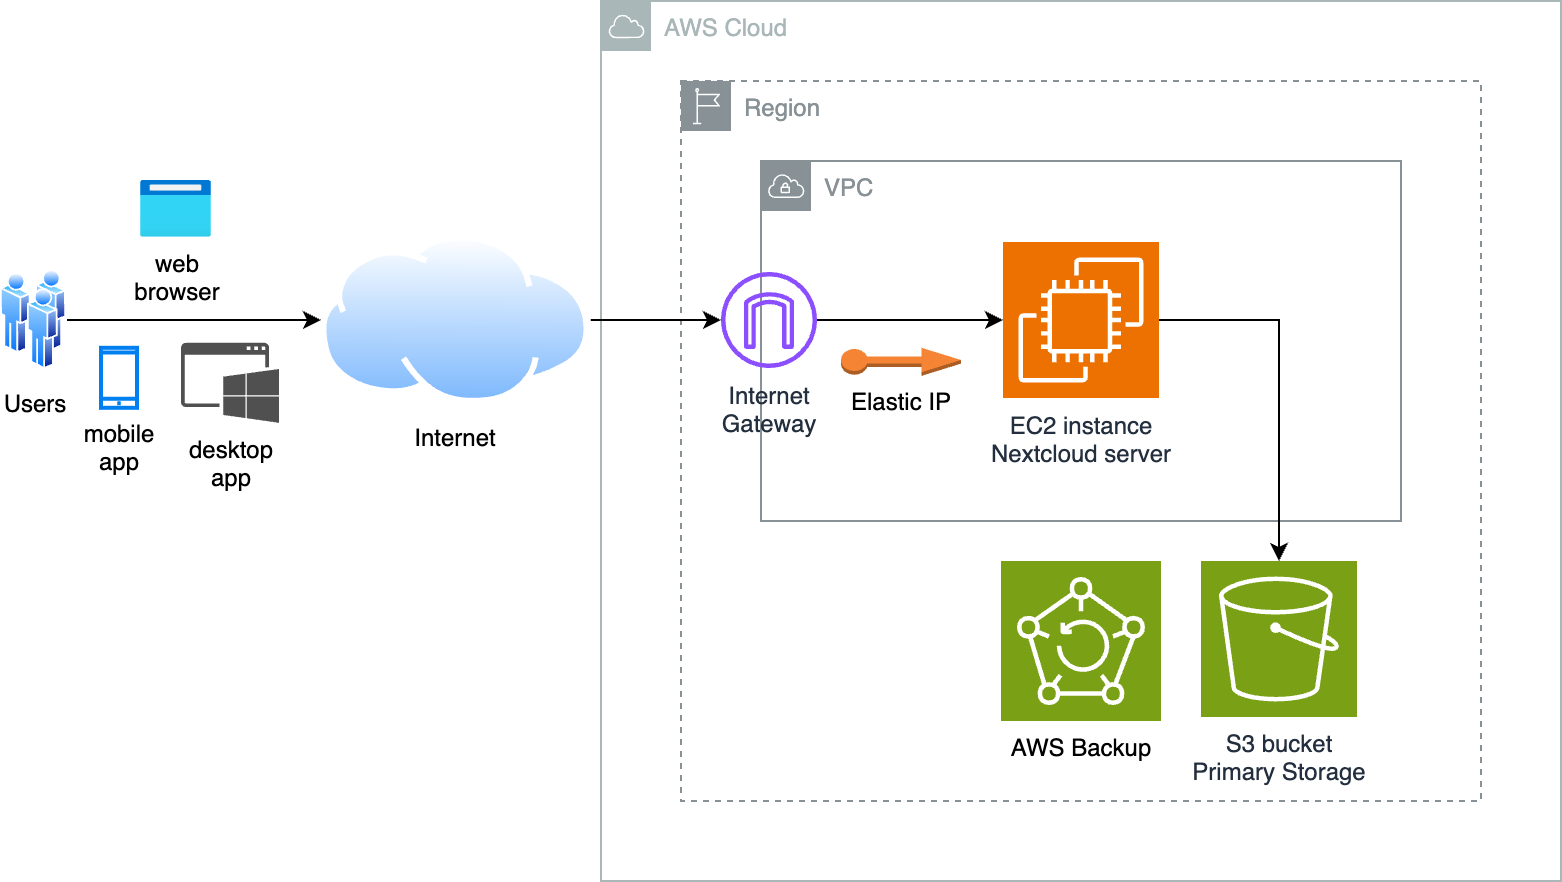
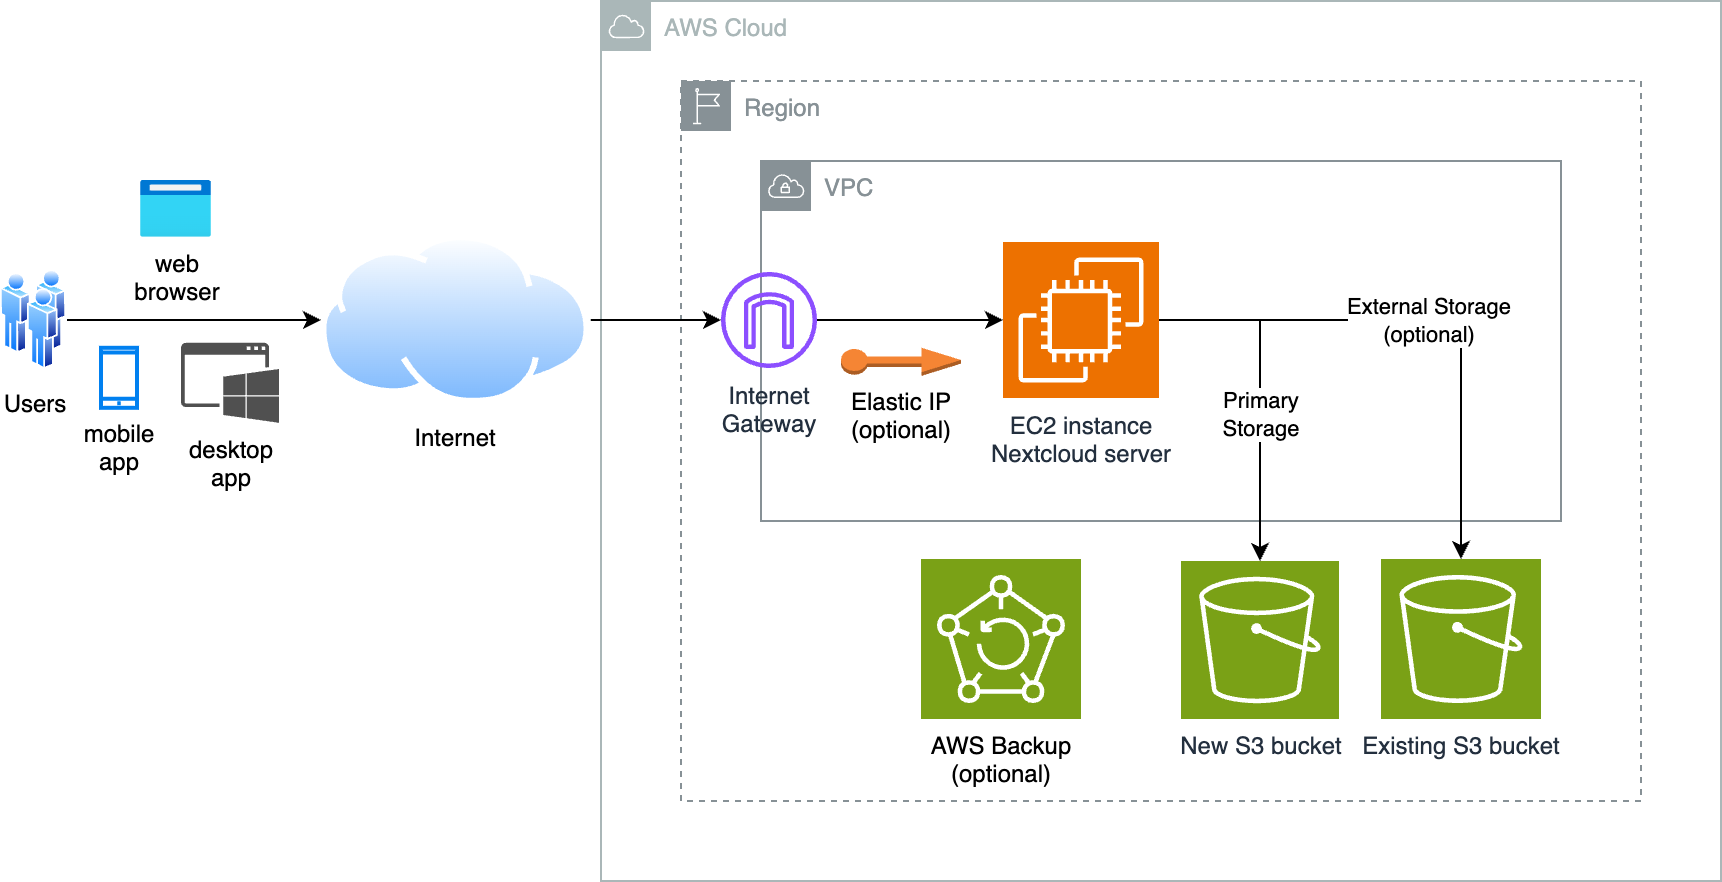
Mount existing S3 bucket as external storage

diff --git a/README.md b/README.md
@@ -1,5 +1,6 @@
 # nextcloud-server
-[AWS CloudFormation](https://aws.amazon.com/cloudformation/) template that provisions an EC2 instance running Nextcloud file synchronization and sharing server, with [Amazon S3](https://aws.amazon.com/s3/) as primary storage and [AWS Backup](https://aws.amazon.com/s3/) for data protection.
+[AWS CloudFormation](https://aws.amazon.com/cloudformation/) template that provisions an EC2 instance running Nextcloud file synchronization and sharing server, with new [Amazon S3](https://aws.amazon.com/s3/) bucket as primary storage and [AWS Backup](https://aws.amazon.com/s3/) for data protection. Includes option to mount existing S3 bucket.
+
 
 ## Notice
 Although this repository is released under the [MIT-0](LICENSE) license, its CloudFormation template uses features from [Nextcloud](https://github.com/nextcloud/server) project. Nextcloud project's licensing includes the [AGPL](https://github.com/nextcloud/server?tab=AGPL-3.0-1-ov-file) license.
@@ -38,20 +39,25 @@ Remote Administration
 - `installWebmin`: install [Webmin](https://webmin.com/) web-based system administration tool. Default is `No`
 - `allowSSHport`: allow inbound SSH from `ingressIPv4` and `ingressIPv6`. Option does not affect [EC2 Instance Connect](https://aws.amazon.com/blogs/compute/new-using-amazon-ec2-instance-connect-for-ssh-access-to-your-ec2-instances/) access. Default is `No`
 
-Nextcloud options
+Nextcloud
 - `adminUserName`: Nextcloud admin username. Default is `admin`
 - `phpVersion`: PHP version to install. Uses [ppa:ondrej/php](https://launchpad.net/~ondrej/+archive/ubuntu/php/) PPA 
 - `databaseOption`: `MariaDB` or `MySQL`. Default is `MariaDB`
-- `s3StorageClass`: [S3 storage class](https://docs.aws.amazon.com/AmazonS3/latest/userguide/storage-class-intro.html) to associate uploaded file with. Default is `STANDARD`
 - `r53ZoneID` (optional):  [Amazon Route 53](https://aws.amazon.com/route53/) hosted zone ID to grant access for use with Certbot [certbot-dns-route53](https://certbot-dns-route53.readthedocs.io/) plugin.  A `*` value will grant access to all Route 53 zones in your AWS account. Permission is restricted to **_acme-challenge.\*** TXT DNS records using [resource record set permissions](https://docs.aws.amazon.com/Route53/latest/DeveloperGuide/resource-record-sets-permissions.html). Default is empty string for no access
+
+S3
+- `s3StorageClass`: [S3 storage class](https://docs.aws.amazon.com/AmazonS3/latest/userguide/storage-class-intro.html) for primary storage to associate uploaded file with. Default is `STANDARD`
 - `enableS3bucketLogging`: enable [S3 server access logging](https://docs.aws.amazon.com/AmazonS3/latest/userguide/enable-server-access-logging.html). Default is `No`
+- `externalS3Bucket` (optional): option to mount existing S3 bucket within Nextcloud as [external storage](https://docs.nextcloud.com/server/latest/admin_manual/configuration_files/external_storage_configuration_gui.html). Specify bucket name in your account
+- `externalS3BucketRegion`: [AWS Region](https://docs.aws.amazon.com/AmazonRDS/latest/UserGuide/Concepts.RegionsAndAvailabilityZones.html#Concepts.RegionsAndAvailabilityZones.Regions) where `externalS3Bucket` is located
+
 
 EBS
 - `volumeSize`: [Amazon EBS](https://docs.aws.amazon.com/AWSEC2/latest/UserGuide/AmazonEBS.html) volume size
 - `volumeType`: [EBS General Purpose Volume](https://aws.amazon.com/ebs/general-purpose/) type
 
 AWS Backup
-- `backupResource`: backup EC2 instance, S3 bucket, both or none. Default is `EC2-and-S3` 
+- `backupResource`: option to backup EC2 instance, S3 bucket, existing S3 bucket mounted as external storage, or none. Default is `EC2-and-S3` 
 - `scheduleExpression`: CRON expression specifying when AWS Backup initiates a backup job. Default is `cron(0 1 ? * * *)`
 - `scheduleExpressionTimezone`: timezone in which the schedule expression is set. Default is `Etc/UTC`
 - `deleteAfterDays`: number of days after creation that a recovery point is deleted. Default is `7` days
@@ -153,7 +159,7 @@ The created IAM user can be located in CloudFormation console stack **Resources*
 ```
 
 
-User [access keys](https://docs.aws.amazon.com/IAM/latest/UserGuide/id_credentials_access-keys.html) are stored in `/var/www/html/config/config.php` on your EC2 instance. To use the credentials to mount other S3 buckets in your AWS account as [external storage](https://docs.nextcloud.com/server/latest/admin_manual/configuration_files/external_storage/amazons3.html), modify associated IAM user inline policy `Resource` key and add your desired S3 bucket names. 
+User [access keys](https://docs.aws.amazon.com/IAM/latest/UserGuide/id_credentials_access-keys.html) are stored in `/var/www/html/config/config.php` on your EC2 instance. To use the credentials to mount other S3 buckets in your AWS account as [external storage](https://docs.nextcloud.com/server/latest/admin_manual/configuration_files/external_storage/amazons3.html), modify associated IAM policy `Resource` key and add your desired S3 bucket names. 
 
 
 
@@ -176,12 +182,12 @@ Nextcloud supports [email server](https://docs.nextcloud.com/server/latest/admin
 
 When configuring external SMTP server, use 465, 587 or any port number that your server supports that is not 25. Amazon EC2 [restricts](https://docs.aws.amazon.com/AWSEC2/latest/UserGuide/ec2-resource-limits.html#port-25-throttle) email sending using port 25 on all instances by default. You can request that this restriction be removed. Refer to [How do I remove the restriction on port 25 from my Amazon EC2 instance or Lambda function?](https://repost.aws/knowledge-center/ec2-port-25-throttle) for more information.
 
-### Mounting another S3 bucket
-Nextcloud [external storage](https://docs.nextcloud.com/server/latest/admin_manual/configuration_files/external_storage_configuration_gui.html) feature enables you to mount external storage services including existing S3 buckets as secondary storage devices. Refer to [NextCloud documentation](https://docs.nextcloud.com/server/latest/admin_manual/configuration_files/external_storage/amazons3.html) for details.
+### Mounting more S3 buckets
+Nextcloud [external storage](https://docs.nextcloud.com/server/latest/admin_manual/configuration_files/external_storage_configuration_gui.html) feature enables you to mount other external storage services including S3 buckets as secondary storage devices. Refer to [NextCloud documentation](https://docs.nextcloud.com/server/latest/admin_manual/configuration_files/external_storage/amazons3.html) for details.
 
 
 ### Documentation
-Refer to Nextcloud [documentation site](https://docs.nextcloud.com/)
+Refer to Nextcloud [documentation site](https://docs.nextcloud.com/) for usage and other features.
 
 
 
@@ -198,7 +204,7 @@ To futher secure your EC2 instance, you may want to
 
 ## Clean Up
 To remove created resources, you will need to
-- [Empty](https://docs.aws.amazon.com/AmazonS3/latest/userguide/empty-bucket.html) created S3 bucket
+- [Empty](https://docs.aws.amazon.com/AmazonS3/latest/userguide/empty-bucket.html) created S3 bucket(s)
 - [Delete](https://docs.aws.amazon.com/aws-backup/latest/devguide/deleting-backups.html) recovery points in created backup vault
 - [Disable](https://docs.aws.amazon.com/AWSEC2/latest/UserGuide/Using_ChangingDisableAPITermination.html) EC2 instance termination protection
 - [Delete](https://docs.aws.amazon.com/AWSCloudFormation/latest/UserGuide/cfn-console-delete-stack.html) CloudFormation stack
